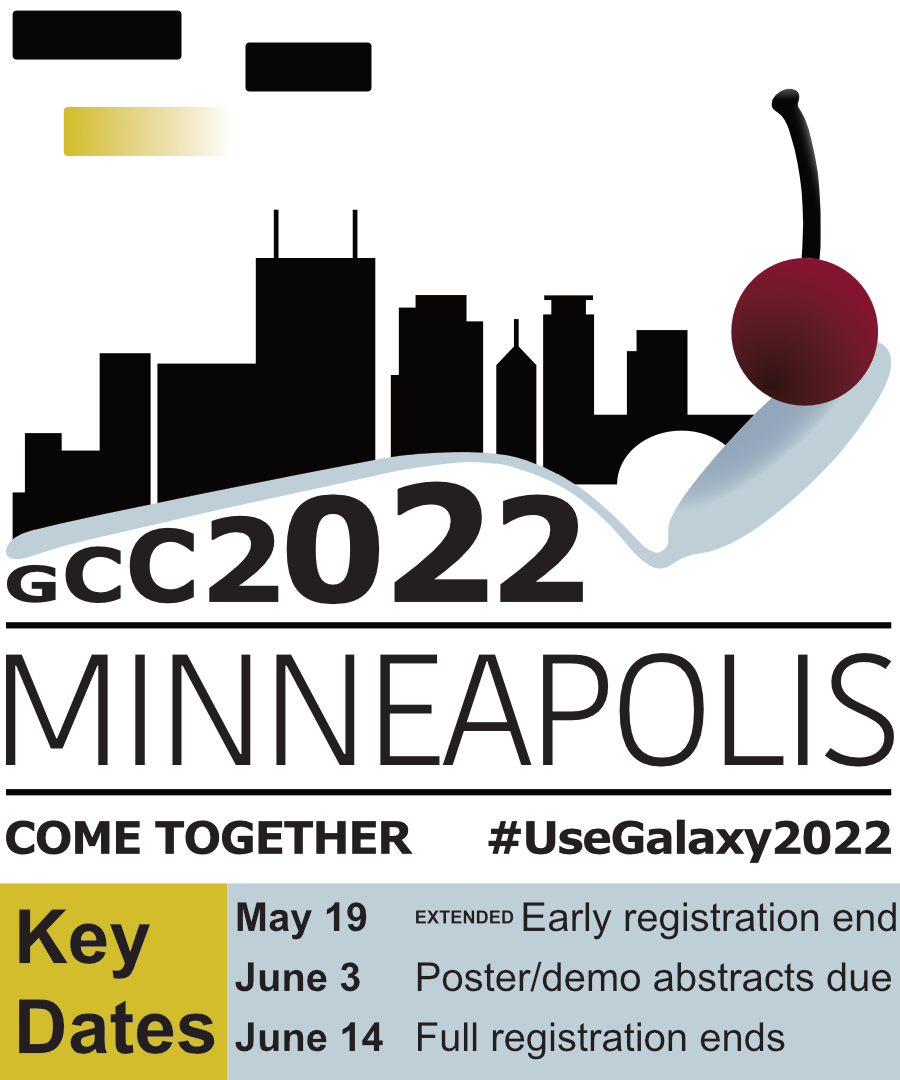
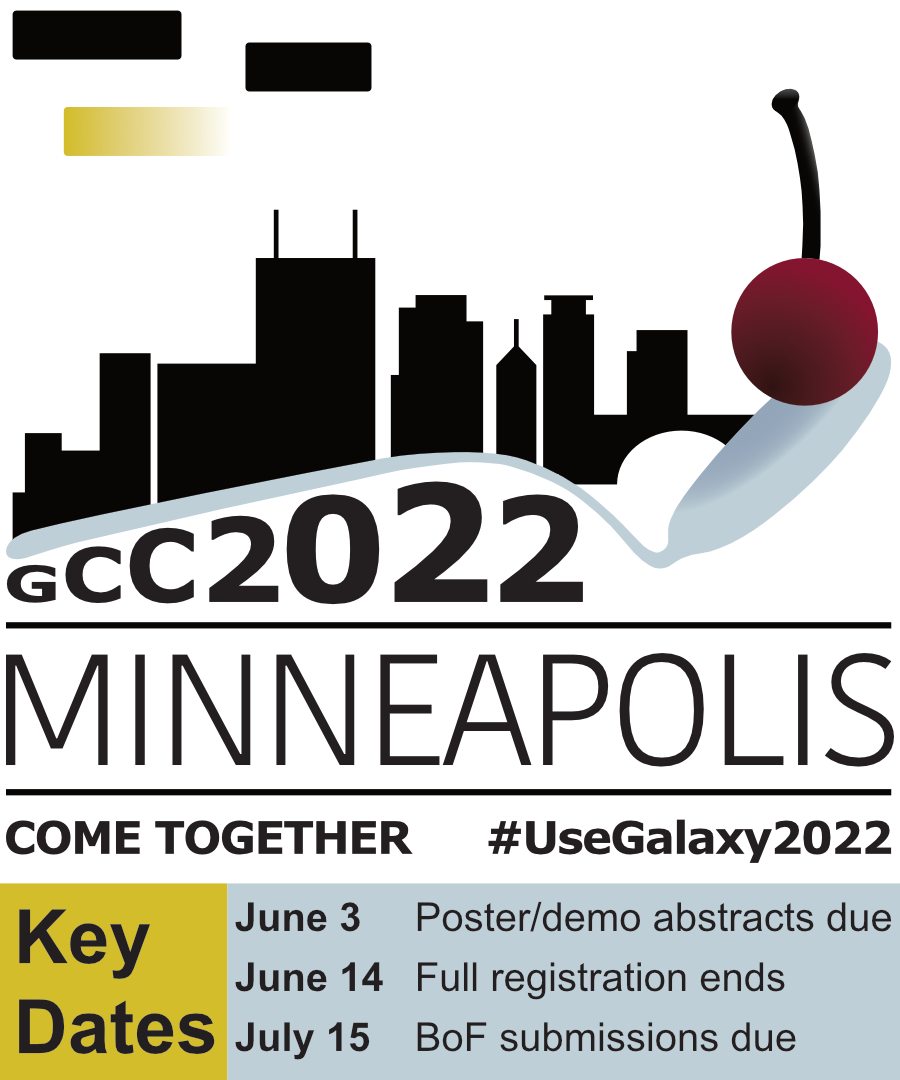
GCC2022 update key dates

diff --git a/content/events/gcc2022/key-dates/index.md b/content/events/gcc2022/key-dates/index.md
@@ -6,10 +6,12 @@
 | -----: | :---: | :---: | --- |
 | Feb 25  | ✔ | ✔ | [Registration](/events/gcc2022/register/) and [abstract submission](/events/gcc2022/abstracts/) open |
 | ~~Apr  12~~ | ✔ | ✔ | ~~Talk and early poster/demo [abstract submissions](/events/gcc2022/abstracts/) due; [fellowship applications](/events/gcc2022/register#gcc2022-fellowships) due~~ |
-| May  1  | ✔ | ✔ | Fellowship applicants notified of acceptance status |
-| May 17 |  | | [Birds of a Feather Submissions open](https://bit.ly/gcc2022-submit-bof). |
-| May  19 |   | ✔ | Early [registration (extended!)](/events/gcc2022/register/) ends; talk and early poster/demo submitters notified of acceptance status |
-| May  20 |   | ✔ | Deadline for confirming abstract acceptance |
+| ~~May  1~~  | ✔ | ✔ | ~~Fellowship applicants notified of acceptance status~~ |
+| ~~May 17~~ |  | | [Birds of a Feather Submissions open](https://bit.ly/gcc2022-submit-bof) |
+| ~~May  19~~ |   | ✔ | Early [registration (extended!)](/events/gcc2022/register/) ends; talk and early poster/demo submitters notified of acceptance status~~ |
+| ~~May  20~~ |   | ✔ | ~~Deadline for confirming abstract acceptance~~ |
 | Jun  3 | ✔ | ✔ | Final deadline for [submitting poster/demo abstracts](/events/gcc2022/abstracts/) |
 | Jun 14 | ✔ |   | Full [registration](/events/gcc2022/register/) ends |
-| Jun 15 | ✔ |   | Late [registration](/events/gcc2022/register/) opens; [Birds of a Feather Submission ends](https://bit.ly/gcc2022-submit-bof) |
+| Jun 15 | ✔ |   | Late [registration](/events/gcc2022/register/) opens |
+| Jul 15 |   | ✔ | [Birds of a Feather Submission ends](https://bit.ly/gcc2022-submit-bof) |
+| Jul 17 | ✔ |   | Conference starts! |
